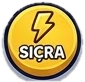
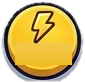
Bigger characters, closer camera, juggling spin+stadium, mascot eye follow/petting, close buttons (back removed), Sprint, team names on scoreboard, replay vignette fix, badges screen
Claude-Session: https://claude.ai/code/session_01PjKaEJ3vqSJ4Fjk85iHy2q

Changed region(s): [[0.1647, 0.5366, 0.8471, 0.8049], [0.1647, 0.6098, 0.1882, 0.6341]]

diff --git a/www/index.html b/www/index.html
@@ -257,7 +257,8 @@ input[type=range].rg::-moz-range-thumb{width:22px;height:22px;border-radius:50%;
 #tc .tb[data-a=k]{background-image:url(assets/h_shoot.png)}
 #tc .tb[data-a=p]{background-image:url(assets/h_pass.png)}
 #tc .tb[data-a=s]{background-image:url(assets/h_dash.png)}
-#tc .tb[data-a=k] svg,#tc .tb[data-a=p] svg,#tc .tb[data-a=s] svg,#tc .tb[data-a=k] .tl,#tc .tb[data-a=p] .tl,#tc .tb[data-a=s] .tl{display:none}
+#tc .tb[data-a=k] svg,#tc .tb[data-a=p] svg,#tc .tb[data-a=s] svg,#tc .tb[data-a=k] .tl,#tc .tb[data-a=p] .tl{display:none}
+#tc .tb[data-a=s] .tl{position:absolute;left:0;right:0;bottom:19%;text-align:center;font:900 calc(var(--u)*.3)/1 system-ui;color:#fff;letter-spacing:.02em;-webkit-text-stroke:calc(var(--u)*.05) #3a2a00;paint-order:stroke fill;text-shadow:0 1px 0 rgba(0,0,0,.35);pointer-events:none}
 #tc .tb[data-a=k].on,#tc .tb[data-a=p].on,#tc .tb[data-a=s].on{background-color:transparent;filter:brightness(1.25) drop-shadow(0 2px 3px rgba(0,0,0,.5));transform:scale(.92)}
 #pz{background:url(assets/h_pause.png) center/contain no-repeat!important;filter:drop-shadow(0 2px 4px rgba(0,0,0,.45))}#pz svg{display:none!important}
 
@@ -327,7 +328,7 @@ const KS={},DEFK=JSON.stringify([K1,K2]);let cap=null,inSet=false,sb='menu',HL=1
 function loadHL(){try{const v=+localStorage.getItem('kroki-half');if(HLO.includes(v))HLn=HL=v}catch(e){}}
 function chHL(d){let i=HLO.indexOf(HLn);i=Math.max(0,Math.min(HLO.length-1,i+d));HLn=HLO[i];try{localStorage.setItem('kroki-half',HLn)}catch(e){}settings()}
 loadHL();
-const ACT=[['u','Yukarı'],['d','Aşağı'],['l','Sol'],['r','Sağ'],['k','Şut'],['p','Pas'],['w','Oyuncu değiştir'],['s','Sıçrama'],['x','Müdahale'],['y','Özel yetenek']];
+const ACT=[['u','Yukarı'],['d','Aşağı'],['l','Sol'],['r','Sağ'],['k','Şut'],['p','Pas'],['w','Oyuncu değiştir'],['s','Sprint'],['x','Müdahale'],['y','Özel yetenek']];
 function rebuildKS(){const used=new Set([...Object.values(K1),...Object.values(K2)].flat());for(const a in K1)KS[a]=[...K1[a],...K2[a]];if(!used.has('Tab'))KS.w.push('Tab');if(!used.has('Space'))KS.p.push('Space')}
 function saveKeys(){try{localStorage.setItem('kroki-keys',JSON.stringify([K1,K2]))}catch(e){}}
 function loadKeys(){try{const j=JSON.parse(localStorage.getItem('kroki-keys')||'null');if(j&&j[0]&&j[1])for(const a in K1){if(Array.isArray(j[0][a])&&typeof j[0][a][0]=='string')K1[a]=[j[0][a][0]];if(Array.isArray(j[1][a])&&typeof j[1][a][0]=='string')K2[a]=[j[1][a][0]]}}catch(e){}}
@@ -335,7 +336,7 @@ function kname(a){const c=Array.isArray(a)?a[0]:a;if(!c)return'?';let m;if(m=/^K
 function assignKey(si,a,code){if(['KeyP','KeyM','KeyZ','Escape'].includes(code))return;const K=si==1?K1:K2,old=K[a][0];for(const X of[K1,K2])for(const b in X)if(X[b][0]==code&&!(X===K&&b==a))X[b]=[old];K[a]=[code];saveKeys();rebuildKS()}
 function resetKeys(){const d=JSON.parse(DEFK);for(const a in K1){K1[a]=d[0][a];K2[a]=d[1][a]}saveKeys();rebuildKS();settings()}
 let spage='hub';
-const ACTN={Yukarı:'Up',Aşağı:'Down',Sol:'Left',Sağ:'Right',Şut:'Shoot',Pas:'Pass','Oyuncu değiştir':'Switch player',Sıçrama:'Dash',Müdahale:'Tackle','Özel yetenek':'Special'};
+const ACTN={Yukarı:'Up',Aşağı:'Down',Sol:'Left',Sağ:'Right',Şut:'Shoot',Pas:'Pass','Oyuncu değiştir':'Switch player',Sprint:'Sprint',Müdahale:'Tackle','Özel yetenek':'Special'};
 const HI='border-image-source:url(assets/bt_yM.png);color:#4a2a00;text-shadow:0 1px 0 rgba(255,235,170,.7)';
 function spg(p){spage=p;cap=null;settings()}
 function settings(from){if(from){sb=from;spage='hub'}inSet=true;ov.style.display='flex';let h='<div class="card">';
@@ -362,15 +363,15 @@ function settings(from){if(from){sb=from;spage='hub'}inSet=true;ov.style.display
  else if(spage=='mus'){const v=Math.round(ST.mus*100);h+='<div style="width:min(520px,94%);margin:10px auto"><div class="srow"><span class="sl">'+L('Müzik','Music')+'</span><span class="sc"><button class="tg'+(ST.musOn?' on':'')+'" onclick="ST.musOn=!ST.musOn;applyAudio();saveST();au();settings()"></button></span></div><div class="srow"><span class="sl">'+L('Müzik seviyesi','Music volume')+'</span><span class="sc"><input class="rg" type="range" min="0" max="100" value="'+v+'" style="--v:'+v+'%" oninput="ST.mus=this.value/100;this.style.setProperty(\'--v\',this.value+\'%\');applyAudio();saveST();this.nextElementSibling.textContent=this.value+\'%\'"><b style="min-width:42px">'+v+'%</b></span></div></div><small>'+L('Müzik ilk tıklama/tuş basışından sonra başlar.','Music starts after your first click or key press.')+'</small>'+back}
  h+='</div>';ov.innerHTML=h}
 const CML=[['Yön.','Dir.'],['1×','1×'],['1.25×','1.25×'],['1.7×','1.7×'],['2.2×','2.2×']];
-function camNext(){const L=[1,1.25,1.7,2.2];zm=(zm+1)%3;if(zm>0)cam.z=L[zm-1];au();camLbl()}
+function camNext(){const L=[1,1.5,1.9,2.4];zm=(zm+1)%3;if(zm>0)cam.z=L[zm-1];au();camLbl()}
 function camLbl(){const b=document.getElementById('cm');if(b)b.textContent='🎥 '+(ST.lang=='en'?CML[zm][1]:CML[zm][0])}
-function setZm(k){zm=k;const L2=[1,1.25,1.7,2.2];if(k>0)cam.z=L2[k-1];camLbl();settings()}
+function setZm(k){zm=k;const L2=[1,1.5,1.9,2.4];if(k>0)cam.z=L2[k-1];camLbl();settings()}
 function setLang(l){ST.lang=l;saveST();settings()}
 function rebind(si,a){cap={s:si,a};settings()}
 function settingsBack(){cap=null;if(spage!='hub'){spage='hub';settings();return}inSet=false;if(sb=='pause')pauseUI();else menu()}
 loadKeys();rebuildKS();
 const NP=6,HOME=[[.03,.5],[.2,.25],[.2,.75],[.32,.5],[.45,.27],[.45,.73]];
-let tour=null,mode=1,D=DIF.medium,P=[],ball,score=[0,0],time=0,ext=0,half=0,froze=0,msg='',act=[4,4],ctl=[KS,null],state='menu',shake=0,restart=null,psw=null,ko=null,hold=null,cam={x:500,y:310,z:1.25},kdg=[false,false];
+let tour=null,mode=1,D=DIF.medium,P=[],ball,score=[0,0],time=0,ext=0,half=0,froze=0,msg='',act=[4,4],ctl=[KS,null],state='menu',shake=0,restart=null,psw=null,ko=null,hold=null,cam={x:500,y:310,z:1.5},kdg=[false,false];
 const GS=.58;let kfx=[],gcam=null,zm=2,netFx=[null,null],bars=[],bused=[0,0],kult=[0,0],swd=[],trail=[],bh=[],clock=0,fxs=[],AC=null,mute=false,msg2='',msg2t=0;
 let ST={touch:'auto',gfx:'auto',fps:false,lang:'tr',sfx:.8,mus:.12,musOn:true,shk:true};
 try{const j=JSON.parse(localStorage.getItem('kroki-set')||'null');if(j&&typeof j=='object')ST=Object.assign(ST,j)}catch(e){}
@@ -452,7 +453,7 @@ function tcBuild(){if(tcBuilt)return;tcBuilt=true;tcEl.innerHTML='<div class="jz
  x:'<path class="f" d="M3.5 15.6V5.2h5.2v5.4l8.6 2.6c1.7.5 3.2 1.8 3.2 3.7v1.7H3.5z"/><path d="M7 21.2v-1.6M11 21.2v-1.6M15 21.2v-1.6M19 21.2v-1.6"/>',
  t:'<path class="f" d="M12 2.8l2.8 5.8 6.3.9-4.6 4.4 1.1 6.3L12 17.2l-5.6 3 1.1-6.3L2.9 9.5l6.3-.9z"/>',
  y:'<path class="f" d="M12 2.8l2.8 5.8 6.3.9-4.6 4.4 1.1 6.3L12 17.2l-5.6 3 1.1-6.3L2.9 9.5l6.3-.9z"/>'};
- const B=[['k',['ŞUT','SHOOT'],.7,.7,2.0],['p',['PAS','PASS'],3.1,.5,1.5],['s',['SIÇRA','DASH'],.5,3.2,1.2],['w',['DEĞİŞ','SWITCH'],2.7,2.5,1.15],['x',['FAUL','FOUL'],4.7,1.9,1.15],['t',['TAKIM','TEAM'],6.1,.6,1.15]];
+ const B=[['k',['ŞUT','SHOOT'],.7,.7,2.0],['p',['PAS','PASS'],3.1,.5,1.5],['s',['SPRİNT','SPRINT'],.5,3.2,1.2],['w',['DEĞİŞ','SWITCH'],2.7,2.5,1.15],['x',['FAUL','FOUL'],4.7,1.9,1.15],['t',['TAKIM','TEAM'],6.1,.6,1.15]];
  B.forEach(([a,nm,r,b,z])=>{const e=document.createElement('div');e.className='tb'+(a=='k'?' big':'');e.dataset.a=a;if(a=='y')tcY=e;e.style.cssText='right:calc(var(--u)*'+r+');bottom:calc(var(--u)*'+b+');width:calc(var(--u)*'+z+');height:calc(var(--u)*'+z+')';e.innerHTML='<svg viewBox="0 0 24 24">'+IC[a]+'</svg><span class="tl" data-t="'+nm[0]+'" data-e="'+nm[1]+'"></span>';
   let code=null;const dn=ev=>{ev.preventDefault();au();try{e.setPointerCapture(ev.pointerId)}catch(_){}if(code){e.classList.remove('on');vk('keyup',code);code=null}code=(K1[a]||{t:['KeyE']}[a])[0];e.classList.add('on');vk('keydown',code)},rel=()=>{if(code){e.classList.remove('on');try{vk('keyup',code)}catch(_){}code=null}};(tcEl._rels=tcEl._rels||[]).push(rel);const _u=null;up=ev=>{ev.preventDefault();if(!code)return;e.classList.remove('on');vk('keyup',code);code=null};
   e.addEventListener('pointerdown',dn);e.addEventListener('pointerup',up);e.addEventListener('pointercancel',up);e.addEventListener('lostpointercapture',up);tcEl.appendChild(e)});
@@ -479,10 +480,12 @@ let mcT=0,mcPX=0,mcPY=0;
 function mcTick(){const m=document.querySelector('.hmCh .mc2');if(!m){mcT=0;return}const t=Date.now()/1000;
  if(Math.random()<.014&&!m.classList.contains('bl')){m.classList.add('bl');setTimeout(()=>m.classList.remove('bl'),130)}
  if(Math.random()<.004&&!m.classList.contains('hap')){mcMouth(3);setTimeout(()=>{if(!m.classList.contains('hap'))mcMouth(1)},700)}
- if(Date.now()-mcLast>3500){mcPX=Math.sin(t*.7)*9;mcPY=Math.sin(t*.5+1)*4}
+ if(Date.now()-mcLast>5500){mcPX=Math.sin(t*.7)*9;mcPY=Math.sin(t*.5+1)*4}
  m.style.setProperty('--px',mcPX+'%');m.style.setProperty('--py',mcPY+'%')}
 let mcLast=0;setInterval(mcTick,70);
-function mcLook(e){const m=document.querySelector('.hmCh .mc2');if(!m)return;const r=m.getBoundingClientRect(),x=(e.clientX-(r.left+r.width/2))/(innerWidth*.35),y=(e.clientY-(r.top+r.height*.4))/(innerHeight*.35);mcPX=Math.max(-12,Math.min(12,x*12));mcPY=Math.max(-8,Math.min(8,y*8));mcLast=Date.now();if(!mcT)mcTick()}
+let mcSt=0,mcLx=0,mcLy=0;
+function mcLook(e){const m=document.querySelector('.hmCh .mc2');if(!m)return;const r=m.getBoundingClientRect(),x=(e.clientX-(r.left+r.width/2))/(innerWidth*.18),y=(e.clientY-(r.top+r.height*.4))/(innerHeight*.18);mcPX=Math.max(-22,Math.min(22,x*22));mcPY=Math.max(-14,Math.min(14,y*14));mcLast=Date.now();
+ const on=e.clientX>r.left&&e.clientX<r.right&&e.clientY>r.top&&e.clientY<r.bottom;if(on&&e.type=='pointermove'){mcSt+=Math.hypot(e.clientX-mcLx,e.clientY-mcLy);if(mcSt>140&&!m.classList.contains('hap')){mcSt=0;mcHap(1800);try{au()}catch(_){}}}else if(!on)mcSt=Math.max(0,mcSt-6);mcLx=e.clientX;mcLy=e.clientY;if(!mcT)mcTick()}
 addEventListener('pointermove',mcLook,{passive:true});addEventListener('pointerdown',mcLook,{passive:true});
 function mnChar(){try{const o=document.createElement('canvas');o.width=o.height=520;const x=o.getContext('2d'),sc=c;c=x;try{p3Char(260,430,12.6,{t:0,i:4,front:1,fx:0,fy:.25,cele:true,near:true})}finally{c=sc}return o.toDataURL()}catch(e){return ''}}
 function menuHTML(){const ctrl=!tcOn(),done=QS?QS.q.filter(q=>q.done).length:0,lv=(QS&&QS.lv)||1,nd=lvNeed(lv),xp=(QS&&QS.xp)||0,pc=Math.max(3,Math.min(100,xp/nd*100)),nm=(window.KR&&KR.profile&&KR.profile.name)||L('Oyuncu','Player'),E=x=>String(x).replace(/[&<>"']/g,ch=>'&#'+ch.charCodeAt(0)+';');
@@ -521,8 +524,8 @@ function mnJug(){const z=document.getElementById('mnJ');if(!z)return;const b=z.q
  z.onpointerdown=e=>{const rc=z.getBoundingClientRect(),px=e.clientX-rc.left,py=e.clientY-rc.top,by=H-y-bs/2;if(Math.hypot(px-x,py-by)>bs*1.1)return;try{au();sfxKick(false)}catch(_){}vy=Math.sqrt(2*H*6*H*.78);vx=(x-px)*7+(Math.random()-.5)*60;n++;if(n>QS.jug){QS.jug=n;qSave()}show();b.classList.remove('hit');void b.offsetWidth;b.classList.add('hit')};
  const st=t=>{if(!document.body.contains(z)||state!='menu')return;const dt=Math.min(.04,(t-lt)/1000);lt=t;vy-=H*6*dt*1;y+=vy*dt;x+=vx*dt;vx*=Math.pow(.6,dt);if(x<bs/2){x=bs/2;vx=Math.abs(vx)}if(x>Wd-bs/2){x=Wd-bs/2;vx=-Math.abs(vx)}if(y<=0){y=0;if(vy<-H*1.2){vy=-vy*.45}else vy=0;if(n>0&&vy==0){n=0;show()}else if(n>0&&y==0&&vy>0){}}r+=vx*dt*.9;b.style.transform='translate('+(x-bs/2)+'px,'+(-y)+'px) rotate('+r+'deg)';const sh=z.querySelector('.jsh');sh.style.transform='translateX('+(x-bs/2)+'px) scale('+Math.max(.4,1-y/(H*1.3))+')';requestAnimationFrame(st)};requestAnimationFrame(st)}
 let dk='medium';
-function helpText(){const n=a=>kname(a);const b1=ST.lang=='en'?`${n(K1.u)}${n(K1.l)}${n(K1.d)}${n(K1.r)} move · ${n(K1.k)} shoot (hold = power, steer while holding = curve) · ${n(K1.p)} pass (on rival wing = CROSS, double tap = THROUGH BALL) · ${n(K1.w)} switch player · ${n(K1.s)} dash · ${n(K1.x)} tackle · ${n(K1.y)} special (defender: WALL in front of the ball, once per half)`:`${n(K1.u)}${n(K1.l)}${n(K1.d)}${n(K1.r)} hareket · ${n(K1.k)} şut (basılı tut = güç, basılıyken yana kay = falso) · ${n(K1.p)} pas (rakip kanadında = ORTA, iki kez bas = ARA PASI) · ${n(K1.w)} oyuncu değiştir · ${n(K1.s)} sıçrama · ${n(K1.x)} müdahale · ${n(K1.y)} özel (defans: topun önüne SET duvarı, yarıda 1 kez)`;
- const b2=ST.lang=='en'?`${n(K2.u)}${n(K2.l)}${n(K2.d)}${n(K2.r)} move · ${n(K2.k)} shoot · ${n(K2.p)} pass · ${n(K2.w)} switch player · ${n(K2.s)} dash · ${n(K2.x)} tackle · ${n(K2.y)} special`:`${n(K2.u)}${n(K2.l)}${n(K2.d)}${n(K2.r)} hareket · ${n(K2.k)} şut · ${n(K2.p)} pas · ${n(K2.w)} oyuncu değiştir · ${n(K2.s)} sıçrama · ${n(K2.x)} müdahale · ${n(K2.y)} özel`;
+function helpText(){const n=a=>kname(a);const b1=ST.lang=='en'?`${n(K1.u)}${n(K1.l)}${n(K1.d)}${n(K1.r)} move · ${n(K1.k)} shoot (hold = power, steer while holding = curve) · ${n(K1.p)} pass (on rival wing = CROSS, double tap = THROUGH BALL) · ${n(K1.w)} switch player · ${n(K1.s)} sprint · ${n(K1.x)} tackle · ${n(K1.y)} special (defender: WALL in front of the ball, once per half)`:`${n(K1.u)}${n(K1.l)}${n(K1.d)}${n(K1.r)} hareket · ${n(K1.k)} şut (basılı tut = güç, basılıyken yana kay = falso) · ${n(K1.p)} pas (rakip kanadında = ORTA, iki kez bas = ARA PASI) · ${n(K1.w)} oyuncu değiştir · ${n(K1.s)} sprint · ${n(K1.x)} müdahale · ${n(K1.y)} özel (defans: topun önüne SET duvarı, yarıda 1 kez)`;
+ const b2=ST.lang=='en'?`${n(K2.u)}${n(K2.l)}${n(K2.d)}${n(K2.r)} move · ${n(K2.k)} shoot · ${n(K2.p)} pass · ${n(K2.w)} switch player · ${n(K2.s)} sprint · ${n(K2.x)} tackle · ${n(K2.y)} special`:`${n(K2.u)}${n(K2.l)}${n(K2.d)}${n(K2.r)} hareket · ${n(K2.k)} şut · ${n(K2.p)} pas · ${n(K2.w)} oyuncu değiştir · ${n(K2.s)} sprint · ${n(K2.x)} müdahale · ${n(K2.y)} özel`;
  return `<div class="row"><button onclick="settings('menu')">⚙ ${L('Ayarlar','Settings')}</button></div><small${tcOn()?' style="display:none"':''}><b style="color:#7cc4ee">${L('MAVİ','BLUE')}:</b> ${b1}<br><b style="color:#f0916f">${L('TURUNCU','ORANGE')}:</b> ${b2}<br>${L('1 Oyuncu modunda mavi takımı her iki tuş grubuyla oynayabilirsin.','In 1-player mode you can control the blue team with either key set.')}<br>${L('Z: yakınlaştırma · M: ses aç/kapat · P/Esc: durdur · Maç 2 × '+HL/60+' dakika.','Z: zoom · M: mute · P/Esc: pause · Match: 2 × '+HL/60+' min.')}</small>`}
 
 let HT=false,JG=null;
@@ -537,21 +540,37 @@ function jgStart(){const cv2=document.getElementById('jgc');if(!cv2)return;const
 function jgHit(px,py){const J=JG;if(!J)return;const b=J.b,R=J.R;let dx=b.x-px,dy=b.y-py;const d=Math.hypot(dx,dy);if(d>R*2)return;
  const k=Math.max(0,1-d/(R*2));const nx=d>1?dx/d:0,ny=d>1?dy/d:-1;
  // vuruş: topu dokunma noktasından uzağa it; alttan vurunca yukarı gider
- const pw=J.h*(1.55+.5*k);b.vx=nx*pw*.85+(Math.random()-.5)*J.h*.5+b.vx*.15;b.vy=Math.min(ny*pw,-J.h*.95)+Math.min(0,b.vy)*.1;b.va+=nx*9+(Math.random()-.5)*2;
+ const pw=J.h*(1.55+.5*k);b.vx=nx*pw*.85+(Math.random()-.5)*J.h*.5+b.vx*.15;b.vy=Math.min(ny*pw,-J.h*.95)+Math.min(0,b.vy)*.1;b.va=b.va*.3+nx*(16+8*k)+(Math.random()-.5)*6;
  J.sc++;J.pop=1;if(J.sc>J.best)J.best=J.sc;if(J.sc>jgBest()){try{localStorage.setItem('kroki-jug',J.sc)}catch(e){}const e2=document.getElementById('jgB');if(e2)e2.textContent=J.sc}try{sfxKick(false)}catch(e){}}
 function jgBall(x,R){x.beginPath();x.arc(0,0,R,0,7);x.fillStyle='#fff';x.fill();x.save();x.clip();x.fillStyle='#111';
  const pent=(cx,cy,r,rot)=>{x.beginPath();for(let i=0;i<5;i++){const a=rot+i*Math.PI*2/5-Math.PI/2;x[i?'lineTo':'moveTo'](cx+Math.cos(a)*r,cy+Math.sin(a)*r)}x.closePath();x.fill()};
  pent(0,0,R*.36,0);for(let i=0;i<5;i++){const a=i*Math.PI*2/5-Math.PI/2;const cx=Math.cos(a)*R*.95,cy=Math.sin(a)*R*.95;pent(cx,cy,R*.34,a+Math.PI/2+Math.PI/5*0+Math.PI);
   x.strokeStyle='#111';x.lineWidth=R*.07;x.beginPath();x.moveTo(Math.cos(a)*R*.36,Math.sin(a)*R*.36);x.lineTo(Math.cos(a)*R*.62,Math.sin(a)*R*.62);x.stroke()}
  x.restore();const g=x.createRadialGradient(-R*.35,-R*.4,R*.1,0,0,R*1.05);g.addColorStop(0,'rgba(255,255,255,.55)');g.addColorStop(.45,'rgba(255,255,255,0)');g.addColorStop(1,'rgba(0,0,0,.38)');x.beginPath();x.arc(0,0,R,0,7);x.fillStyle=g;x.fill();x.lineWidth=2;x.strokeStyle='rgba(0,0,0,.55)';x.stroke()}
+function jgBg(w,h,dpr){const c2=document.createElement('canvas');c2.width=Math.round(w*dpr);c2.height=Math.round(h*dpr);const x=c2.getContext('2d');x.scale(dpr,dpr);const hz=h*.5;let r=7;const rnd=()=>(r=(r*16807)%2147483647)/2147483647;
+ let g=x.createLinearGradient(0,0,0,hz);g.addColorStop(0,'#0b1d3a');g.addColorStop(1,'#2c5d8f');x.fillStyle=g;x.fillRect(0,0,w,hz);
+ for(let i=0;i<50;i++){x.fillStyle='rgba(255,255,255,'+(.3+rnd()*.5)+')';x.fillRect(rnd()*w,rnd()*hz*.5,1.5,1.5)}
+ // tribün
+ const t0=hz*.38;g=x.createLinearGradient(0,t0,0,hz);g.addColorStop(0,'#26324a');g.addColorStop(1,'#141b2b');x.fillStyle=g;x.fillRect(0,t0,w,hz-t0);
+ const cols=['#e8453c','#f2c230','#3b8fe0','#f4f4f4','#47b36a','#e57ab2'];for(let row=0;row<7;row++){const y=t0+6+row*(hz-t0-10)/7;for(let xx=(row%2)*6;xx<w;xx+=12){x.fillStyle=cols[Math.floor(rnd()*6)];x.globalAlpha=.55+rnd()*.35;x.beginPath();x.arc(xx+3,y,3.2,0,7);x.fill();x.fillStyle='#e9c9a4';x.beginPath();x.arc(xx+3,y-4,2.2,0,7);x.fill()}}x.globalAlpha=1;
+ g=x.createLinearGradient(0,t0,0,t0+14);g.addColorStop(0,'rgba(0,0,0,.5)');g.addColorStop(1,'rgba(0,0,0,0)');x.fillStyle=g;x.fillRect(0,t0,w,14);
+ // reklam panoları
+ const bh=h*.055;x.fillStyle='#10151f';x.fillRect(0,hz-bh,w,bh);const bw=w/6;for(let i=0;i<7;i++){x.fillStyle=['#e8453c','#2a7de1','#f2c230','#2fb36a'][i%4];x.fillRect(i*bw+4,hz-bh+4,bw-8,bh-8);x.fillStyle='rgba(255,255,255,.85)';x.font='900 '+Math.round(bh*.5)+'px system-ui';x.textAlign='center';x.fillText('SCRIBBLE KICK',i*bw+bw/2,hz-bh*.3)}
+ // projektörler
+ for(const fx of[w*.12,w*.88]){const gl=x.createRadialGradient(fx,t0*.5,2,fx,t0*.5,h*.45);gl.addColorStop(0,'rgba(255,248,210,.55)');gl.addColorStop(1,'rgba(255,248,210,0)');x.fillStyle=gl;x.fillRect(0,0,w,hz);x.fillStyle='#fff';x.fillRect(fx-14,t0*.5-5,28,10)}
+ // çim
+ g=x.createLinearGradient(0,hz,0,h);g.addColorStop(0,'#2f8f43');g.addColorStop(1,'#175c27');x.fillStyle=g;x.fillRect(0,hz,w,h-hz);
+ for(let i=0;i<10;i++){const y0=hz+(h-hz)*Math.pow(i/10,1.6),y1=hz+(h-hz)*Math.pow((i+1)/10,1.6);x.fillStyle=i%2?'rgba(255,255,255,.05)':'rgba(0,0,0,.07)';x.fillRect(0,y0,w,y1-y0)}
+ x.strokeStyle='rgba(255,255,255,.35)';x.lineWidth=3;x.beginPath();x.moveTo(0,hz+(h-hz)*.12);x.lineTo(w,hz+(h-hz)*.12);x.stroke();
+ g=x.createLinearGradient(0,hz,0,hz+18);g.addColorStop(0,'rgba(0,0,0,.35)');g.addColorStop(1,'rgba(0,0,0,0)');x.fillStyle=g;x.fillRect(0,hz,w,18);
+ g=x.createRadialGradient(w/2,h*.55,h*.2,w/2,h*.55,w*.7);g.addColorStop(0,'rgba(0,0,0,0)');g.addColorStop(1,'rgba(0,0,0,.35)');x.fillStyle=g;x.fillRect(0,0,w,h);return c2}
 function jgLoop(t){const J=JG;if(!J||!document.body.contains(J.cv))return;const dt=Math.min(.033,(t-J.t)/1000);J.t=t;const b=J.b,x=J.x,R=J.R,w=J.w,h=J.h,G=h-R*.6;
- b.vy+=h*2.1*dt;const dr=Math.pow(.985,dt*60);b.vx*=dr;b.x+=b.vx*dt;b.y+=b.vy*dt;b.a+=b.va*dt;b.va*=Math.pow(.99,dt*60);
+ b.vy+=h*2.1*dt;const dr=Math.pow(.985,dt*60);b.vx*=dr;b.x+=b.vx*dt;b.y+=b.vy*dt;b.a+=b.va*dt;b.vx+=b.va*R*.35*dt;b.va*=Math.pow(.995,dt*60);
  if(b.x<R){b.x=R;b.vx=Math.abs(b.vx)*.8;b.va=-b.va*.6}if(b.x>w-R){b.x=w-R;b.vx=-Math.abs(b.vx)*.8;b.va=-b.va*.6}
  if(b.y<R){b.y=R;b.vy=Math.abs(b.vy)*.7}
- if(b.y>G){b.y=G;if(b.vy>h*.25){b.vy=-b.vy*.72;J.fl=1;try{sfx('kick_soft')}catch(e){}}else b.vy=0;b.vx*=Math.pow(.96,dt*60);b.va=b.vx/R;if(J.sc){J.sc=0}}
+ if(b.y>G){b.y=G;if(b.vy>h*.25){b.vy=-b.vy*.72;b.va=b.va*.7+b.vx/R*.4;J.fl=1;try{sfx('kick_soft')}catch(e){}}else b.vy=0;b.vx*=Math.pow(.96,dt*60);b.va=b.vx/R;if(J.sc){J.sc=0}}
  J.pop=Math.max(0,J.pop-dt*5);J.fl=Math.max(0,J.fl-dt*4);
- x.setTransform(J.dpr,0,0,J.dpr,0,0);const hz=h*.5;const g=x.createLinearGradient(0,0,0,h);g.addColorStop(0,'#1d5a86');g.addColorStop(.52,'#8fd0ee');g.addColorStop(.521,'#3fa84a');g.addColorStop(1,'#1b6e2e');x.fillStyle=g;x.fillRect(0,0,w,h);
- for(let i=0;i<8;i++){x.fillStyle=i%2?'rgba(255,255,255,.04)':'rgba(0,0,0,.05)';x.fillRect(0,hz+i*(h-hz)/8,w,(h-hz)/8)}
+ x.setTransform(J.dpr,0,0,J.dpr,0,0);const hz=h*.5;if(!J.bg)J.bg=jgBg(w,h,J.dpr);x.drawImage(J.bg,0,0,w,h);
  const hgt=Math.max(.25,1-(G-b.y)/(h*.9));x.fillStyle='rgba(0,0,0,.3)';x.beginPath();x.ellipse(b.x,G+R*.55,R*.9*hgt,R*.22*hgt,0,0,7);x.fill();
  x.save();x.translate(b.x,b.y);const sq=1+J.fl*.1;x.scale(sq*(1+J.pop*.06),(1+J.pop*.06)/sq);x.rotate(b.a);jgBall(x,R);x.restore();
  x.textAlign='center';x.font='900 '+Math.round(h*.16)+'px system-ui';x.lineWidth=5;x.strokeStyle='rgba(0,0,0,.45)';x.fillStyle='rgba(255,255,255,.55)';x.strokeStyle='rgba(0,0,0,.2)';x.strokeText(J.sc,w/2,h*.34);x.fillText(J.sc,w/2,h*.34);
@@ -1062,12 +1081,12 @@ function plLoad(){for(const k in PLF){const im=new Image();im.src='assets/pl_'+k
 function plHSL(hex){const n=parseInt(hex.slice(1),16),r=(n>>16&255)/255,g=(n>>8&255)/255,b=(n&255)/255,mx=Math.max(r,g,b),mn=Math.min(r,g,b),l=(mx+mn)/2,d=mx-mn;let h=0,sa=0;if(d){sa=d/(1-Math.abs(2*l-1));h=mx==r?((g-b)/d)%6:mx==g?(b-r)/d+2:(r-g)/d+4;h=(h*60+360)%360}return[h,sa,l]}
 const PLS={lion:{"0": [249, 301, 124.5, 182.7, 118.3], "1": [242, 257, 121.0, 142.1, 114.9], "2": [216, 227, 108.0, 124.4, 102.6], "3": [252, 263, 126.0, 143.3, 119.7], "4": [227, 243, 113.5, 135.2, 107.8], "k": [689, 339, 344.5, 189, 150]},robot:{"0": [243, 268, 121.5, 134.0, 127.8], "1": [241, 291, 120.5, 145.5, 133.0], "2": [247, 308, 123.5, 154.0, 138.8], "3": [255, 232, 127.5, 116.0, 121.8], "4": [233, 308, 116.5, 154.0, 135.2], "k": [560, 302, 280.0, 151.0, 135.9]},bear:{"0": [249, 268, 124.5, 134.0, 129.2], "1": [241, 245, 120.5, 122.5, 121.5], "2": [222, 245, 111.0, 122.5, 116.8], "3": [224, 246, 112.0, 123.0, 117.5], "4": [224, 245, 112.0, 122.5, 117.2], "k": [503, 292, 251.5, 146.0, 131.4]},wolf:{"0": [256, 258, 128.0, 129.0, 128.5], "1": [236, 257, 118.0, 128.5, 123.2], "2": [236, 258, 118.0, 129.0, 123.5], "3": [242, 258, 121.0, 129.0, 125.0], "4": [237, 258, 118.5, 129.0, 123.8], "k": [496, 292, 248.0, 146.0, 131.4]},tiger:{"0": [235, 248, 117.5, 124.0, 120.8], "1": [235, 248, 117.5, 124.0, 120.8], "2": [235, 248, 117.5, 124.0, 120.8], "3": [252, 259, 126.0, 129.5, 127.8], "4": [235, 248, 117.5, 124.0, 120.8], "k": [496, 292, 248.0, 146.0, 131.4]},zebra:{"0": [221, 269, 110.5, 134.5, 122.5], "1": [279, 268, 139.5, 134.0, 136.8], "2": [222, 268, 111.0, 134.0, 122.5], "3": [222, 268, 111.0, 134.0, 122.5], "4": [222, 268, 111.0, 134.0, 122.5], "k": [659, 357, 329.5, 178.5, 160.7]},ghost:{"0": [259, 256, 129.5, 128.0, 128.8], "1": [216, 256, 108.0, 128.0, 118.0], "2": [216, 286, 108.0, 143.0, 125.5], "3": [224, 256, 112.0, 128.0, 120.0], "4": [216, 256, 108.0, 128.0, 118.0], "k": [661, 342, 330.5, 171.0, 153.9]},ninja:{"0": [257, 200, 128.5, 100.0, 114.2], "1": [256, 200, 128.0, 100.0, 114.0], "2": [257, 200, 128.5, 100.0, 114.2], "3": [257, 200, 128.5, 100.0, 114.2], "4": [257, 200, 128.5, 100.0, 114.2], "k": [653, 332, 326.5, 166.0, 149.4]},dino:{"0": [261, 279, 130.5, 139.5, 135.0], "1": [255, 272, 127.5, 136.0, 131.8], "2": [263, 242, 131.5, 121.0, 126.2], "3": [232, 272, 116.0, 136.0, 126.0], "4": [248, 260, 124.0, 130.0, 127.0], "k": [668, 342, 334.0, 171.0, 153.9]},penguin:{"0": [214, 258, 107.0, 129.0, 118.0], "1": [227, 307, 113.5, 153.5, 133.5], "2": [227, 267, 113.5, 133.5, 123.5], "3": [228, 228, 114.0, 114.0, 114.0], "4": [237, 228, 118.5, 114.0, 116.2], "k": [663, 340, 331.5, 170.0, 153.0]},thunder:{"0": [248, 256, 124.0, 128.0, 126.0], "1": [248, 200, 124.0, 100.0, 112.0], "2": [263, 238, 131.5, 119.0, 125.2], "3": [248, 200, 124.0, 100.0, 112.0], "4": [257, 230, 128.5, 115.0, 121.8], "k": [660, 331, 330.0, 165.5, 149.0]},dragon:{"0": [248, 291, 124.0, 145.5, 134.8], "1": [248, 290, 124.0, 145.0, 134.5], "2": [249, 290, 124.5, 145.0, 134.8], "3": [249, 291, 124.5, 145.5, 135.0], "4": [264, 317, 132.0, 158.5, 145.2], "k": [652, 341, 326.0, 170.5, 153.5]},bull:{"0": [248, 291, 124.0, 145.5, 134.8], "1": [249, 291, 124.5, 145.5, 135.0], "2": [248, 291, 124.0, 145.5, 134.8], "3": [248, 293, 124.0, 146.5, 135.2], "4": [245, 291, 122.5, 145.5, 134.0], "k": [652, 362, 326.0, 181.0, 162.9]},eagle:{"0": [216, 310, 108.0, 155.0, 131.5], "1": [219, 257, 109.5, 128.5, 119.0], "2": [263, 273, 131.5, 136.5, 134.0], "3": [217, 258, 108.5, 129.0, 118.8], "4": [253, 258, 126.5, 129.0, 127.8], "k": [652, 347, 326.0, 173.5, 156.2]}};
 
-function plGet(t,i,hex){const tm=TS[t];if(PLS[tm]){const q=i?String(i-1):'k',f=PLS[tm][q],key=tm+'_'+q;if(key in PLC&&PLC[key])return PLC[key];let im=PLI[key];if(!im){im=PLI[key]=new Image();im.src='assets/pl_'+key+'.png'}if(!im.complete||!im.naturalWidth)return null;const kz=100/(2*f[4]),cv=document.createElement('canvas');cv.width=Math.round(f[0]*kz);cv.height=Math.round(f[1]*kz);cv.getContext('2d').drawImage(im,0,0,cv.width,cv.height);return PLC[key]={cv,cx:f[2]*kz,cy:f[3]*kz,u:14/(f[4]*kz)}}
+function plGet(t,i,hex){const tm=TS[t];if(PLS[tm]){const q=i?String(i-1):'k',f=PLS[tm][q],key=tm+'_'+q;if(key in PLC&&PLC[key])return PLC[key];let im=PLI[key];if(!im){im=PLI[key]=new Image();im.src='assets/pl_'+key+'.png'}if(!im.complete||!im.naturalWidth)return null;const kz=100/(2*f[4]),cv=document.createElement('canvas');cv.width=Math.round(f[0]*kz);cv.height=Math.round(f[1]*kz);cv.getContext('2d').drawImage(im,0,0,cv.width,cv.height);return PLC[key]={cv,cx:f[2]*kz,cy:f[3]*kz,u:18/(f[4]*kz)}}
  const k=(t?'o':'b')+(i?i-1:0),key=(i?k:(t?'ko':'kb'))+'|'+hex,f=PLF[i?k:(t?'ko':'kb')];if(!f)return null;if(key in PLC)return PLC[key];
  const im=PLI[i?k:(t?'ko':'kb')];if(!im||!im.complete||!im.naturalWidth)return null;
  const [h,sa,l]=plHSL(hex),base=t?28:212;let dh=((h-base+540)%360)-180;if(sa<.38||l>.88||l<.12||!('filter' in c)){PLC[key]=null;return null}
  const kz=100/(2*f[4]),cv=document.createElement('canvas');cv.width=Math.round(f[0]*kz);cv.height=Math.round(f[1]*kz);const x=cv.getContext('2d');if(Math.abs(dh)>16)x.filter='hue-rotate('+Math.round(dh)+'deg)';x.drawImage(im,0,0,cv.width,cv.height);
- return PLC[key]={cv,cx:f[2]*kz,cy:f[3]*kz,u:14/(f[4]*kz)}}
+ return PLC[key]={cv,cx:f[2]*kz,cy:f[3]*kz,u:18/(f[4]*kz)}}
 function plDraw(p){if(!PLON)return false;const sp=plGet(p.t,p.i,TC[p.t][0]);if(!sp)return false;c.drawImage(sp.cv,-sp.cx*sp.u,-sp.cy*sp.u,sp.cv.width*sp.u,sp.cv.height*sp.u);return true}
 function face0(p){if(plDraw(p))return;face00(p);lateAcc(p)}
 function face00(p){const R=14,ch=CH[p.t*NP+p.i],tc=TC[p.t],lx=p.fx*1.4,ly=p.fy*1.1,XS=accSet(p,ch);
@@ -1188,13 +1207,13 @@ function rplStop(){if(!rpl)return;P=rpl.rP;ball=rpl.rB;cam.z=rpl.cz;cam.x=ball.x
 function rplStep(dt){const r=rpl;r.t+=dt;if(r.t>=r.dur){rplStop();return}const u=r.t0+Math.min(r.t*r.rate,r.t1-r.t0);let i=0;while(i<RB.length-2&&RB[i+1].t<=u)i++;const A=RB[i],B=RB[i+1]||A,f=B.t>A.t?Math.max(0,Math.min(1,(u-A.t)/(B.t-A.t))):0;
  const L1=(a,b)=>Math.abs(b-a)<80?a+(b-a)*f:a;P=A.p.map((q,k)=>{const o=Object.assign({},q),z=B.p[k];if(z){o.x=L1(q.x,z.x);o.y=L1(q.y,z.y)}return o});ball=Object.assign({},A.b);ball.x=L1(A.b.x,B.b.x);ball.y=L1(A.b.y,B.b.y);ball.h=L1(A.b.h||0,B.b.h||0);ball.car=A.ci>=0?P[A.ci]:null;
  const k=(u-r.t0)/Math.max(.01,r.t1-r.t0),zt=2+.55*k*k*(3-2*k),hw=W/2/cam.z,hh=H/2/cam.z;cam.z+=(zt-cam.z)*Math.min(1,dt*3);cam.x+=(ball.x-cam.x)*Math.min(1,dt*4.5);cam.y+=(ball.y-cam.y)*Math.min(1,dt*4.5);cam.x=clamp(cam.x,hw,W-hw);cam.y=clamp(cam.y,hh,H-hh)}
-function rplOverlay(){const r=rpl;c.setTransform(RS,0,0,RS,OX*RS,0);const g=c.createRadialGradient(W/2,H/2,H*.38,W/2,H/2,H*.85);g.addColorStop(0,'rgba(0,0,0,0)');g.addColorStop(1,'rgba(0,0,0,.55)');c.fillStyle=g;c.fillRect(0,0,W,H);
+function rplOverlay(){const r=rpl;c.setTransform(RS,0,0,RS,OX*RS,0);const g=c.createRadialGradient(W/2,H/2,H*.5,W/2,H/2,Math.hypot(VW/2,H/2));g.addColorStop(0,'rgba(0,0,0,0)');g.addColorStop(1,'rgba(0,0,0,.5)');c.fillStyle=g;c.fillRect(-OX,0,VW,H);
  c.fillStyle='rgba(0,0,0,.55)';c.fillRect(0,0,W,0);const bl=.5+.5*Math.sin(clock*7);c.fillStyle='rgba(16,28,25,.82)';c.beginPath();c.roundRect(24,86,150,34,17);c.fill();c.fillStyle='rgba(255,70,70,'+(.5+.5*bl)+')';c.beginPath();c.arc(46,103,6,0,7);c.fill();c.fillStyle='#fff';c.font='bold 17px system-ui';c.textAlign='left';c.fillText(L('TEKRAR','REPLAY'),62,109);
  c.font='600 13px system-ui';c.fillStyle='rgba(255,255,255,.8)';c.textAlign='center';c.fillText(L('Geçmek için dokun / Enter','Tap / Enter to skip'),W/2,H-26);c.fillStyle='rgba(255,255,255,.25)';c.fillRect(W/2-120,H-16,240,3);c.fillStyle='#ffd54f';c.fillRect(W/2-120,H-16,240*Math.min(1,r.t/r.dur),3)}
 
 let penRes=null;
 const PKR=27,PKD=48;
-function TNm(t){return t==1&&tour?tour.opp.n[ST.lang=='en'?1:0]:L(['MAVİ','TURUNCU'][t],['BLUE','ORANGE'][t])}
+function TNm(t){const k=(typeof TS!='undefined'&&TS[t])||null,T=k&&typeof TMS!='undefined'?TMS[k]:null,en=ST.lang=='en';if(t==1&&tour)return tour.opp.n[en?1:0];if(T)return T.n[en?1:0].toLocaleUpperCase(en?'en':'tr');return L(['MAVİ','TURUNCU'][t],['BLUE','ORANGE'][t])}
 
 const TEAMS=[{n:['MAVİ','BLUE']},{n:['YILDIRIM','THUNDER'],c:['#f06bd0','#a4278a']},{n:['KURTLAR','WOLVES'],c:['#b79bf0','#6a4bb8']},{n:['ASLANLAR','LIONS'],c:['#ffd24d','#c99a14']},{n:['KARTALLAR','EAGLES'],c:['#e8eef5','#8b98a8']},{n:['EJDERHALAR','DRAGONS'],c:['#ff6b5e','#b32a1f']},{n:['BOĞALAR','BULLS'],c:['#4fd1c5','#17877d']},{n:['KAPLANLAR','TIGERS'],c:['#ff9f4a','#c25b0a']}];
 const TRD=[{d:'easy',th:'grass'},{d:'medium',th:'clay'},{d:'hard',th:'space'}];
@@ -1240,7 +1259,7 @@ function matchEnd(){const a=score[0],b=score[1];
  state='end';sfx('whistle_long');pz.style.display='none';
  const ps=penRes?`<p style="font-size:15px;opacity:.85;margin:2px 0 8px">${L('Penaltılar','Penalties')}: ${penRes.g[0]} — ${penRes.g[1]}</p>`:'';
  const ka=(a==b&&w==0)?a+1:a,kb=(a==b&&w==1)?b+1:b;
- ov.style.display='flex';ov.innerHTML=`<div class="card"><h1>${w==0?L('MAVİ KAZANDI!','BLUE WINS!'):w==1?L('TURUNCU KAZANDI!','ORANGE WINS!'):L('BERABERE','DRAW')}</h1>${(()=>{const ns=w==0?(b==0||a-b>=2?3:2):w==1?0:1;return '<div style="margin:2px 0 -2px">'+[0,1,2].map(i=>'<img src="assets/'+(i<ns?'r_star':'r_star_off')+'.png" style="height:'+(i==1?40:30)+'px;margin:0 3px;vertical-align:bottom">').join('')+'</div>'})()}${w==0?'<img src="assets/r_trophy.png" style="height:58px;margin:-2px 0 0;filter:drop-shadow(0 3px 4px rgba(0,0,0,.5))">':''}<p style="font-size:22px;margin:4px 0">${a} — ${b}</p>${ps}${NET?'':monAdBtn(w==0?5:3)}${NET?'':statsHtml()}${(window.KR&&mode==1)?KR.matchEnd(ka,kb,dk):''}${NET?NETHOOK.endRow():'<div class="row"><button onclick="go(mode,Object.keys(DIF).find(k=>DIF[k]==D))">'+L('Yeniden Oyna','Play again')+'</button><button onclick="menu()">'+L('Menü','Menu')+'</button></div>'}</div>`}
+ ov.style.display='flex';ov.innerHTML=`<div class="card"><h1>${w==0||w==1?TNm(w)+L(' KAZANDI!',' WINS!'):L('BERABERE','DRAW')}</h1>${(()=>{const ns=w==0?(b==0||a-b>=2?3:2):w==1?0:1;return '<div style="margin:2px 0 -2px">'+[0,1,2].map(i=>'<img src="assets/'+(i<ns?'r_star':'r_star_off')+'.png" style="height:'+(i==1?40:30)+'px;margin:0 3px;vertical-align:bottom">').join('')+'</div>'})()}${w==0?'<img src="assets/r_trophy.png" style="height:58px;margin:-2px 0 0;filter:drop-shadow(0 3px 4px rgba(0,0,0,.5))">':''}<p style="font-size:22px;margin:4px 0">${a} — ${b}</p>${ps}${NET?'':monAdBtn(w==0?5:3)}${NET?'':statsHtml()}${(window.KR&&mode==1)?KR.matchEnd(ka,kb,dk):''}${NET?NETHOOK.endRow():'<div class="row"><button onclick="go(mode,Object.keys(DIF).find(k=>DIF[k]==D))">'+L('Yeniden Oyna','Play again')+'</button><button onclick="menu()">'+L('Menü','Menu')+'</button></div>'}</div>`}
 function penStart(){comment('pens');if(rpl)rplStop();RB=[];rplQ=false;const hf0=half;half=0;ext=0;froze=0;msg='';bars=[];swd=[];fk=null;pk=null;restart=null;hold=null;ko=null;rk=null;psw=null;fa=[];kfx=[];bh=[];
  pen={tk:[0,0],g:[0,0],hist:[[],[]],n:0,ph:'intro',t:0,zz:cam.z,hf:hf0};pz.style.display='block';sfx('whistle_pen')}
 function penKick(){const q=pen,t=q.mini?q.mini.mt:q.n%2,sh=P[NP*t+1+(q.tk[t]%5)],kp=P[NP*(1-t)];q.t=0;q.ph='ready';q.sh=sh;q.kp=kp;q.team=t;q.dir=null;q.ds=0;q.kyo=0;q.kvy=0;q.pw=0;q.ch=false;q.aimY=0;q.aimZ=14;q.ah=0;q.hum=!!ctl[t];q.khum=!!ctl[1-t];q.kd=.1+Math.random()*.16;q.res='';
@@ -1447,10 +1466,12 @@ function statsHtml(){const m=MS,tp=(m.pos[0]+m.pos[1])||1,a=Math.round(m.pos[0]/
 function loginBox(){const st=QS.st||1,cur=Math.min(st,7),nx=Math.min(st+1,7)+1;let ch='';for(let d=1;d<=7;d++){const done=d<=cur,now=d==cur;ch+='<div style="flex:1;padding:5px 0;border-radius:9px;text-align:center;font-size:11px;background:'+(now?'rgba(255,213,79,.28)':done?'rgba(95,224,122,.2)':'rgba(255,255,255,.06)')+';border:1px solid '+(now?'#ffd54f':'transparent')+'"><div style="opacity:.75">'+L('Gün ','Day ')+d+'</div><b style="color:'+(done?'#ffd54f':'#fff')+'">'+(done?'✓ ':'')+'🪙'+(d+1)+'</b></div>'}
  return '<div style="margin:6px 0 10px;padding:9px;border-radius:14px;background:rgba(255,255,255,.07);text-align:left"><div style="display:flex;justify-content:space-between;font-size:14px"><b>📅 '+L('Günlük giriş ödülü','Daily login reward')+'</b><span style="color:#ffd54f">'+L('Seri: ','Streak: ')+st+' '+L('gün','d')+'</span></div><div style="display:flex;gap:4px;margin:7px 0">'+ch+'</div><div style="font-size:12px;opacity:.85">✅ '+L('Bugünkü ödül alındı: ','Today claimed: ')+'<b style="color:#ffd54f">+'+(cur+1)+' 🪙</b> · '+L('Yarın gelirsen: ','Come back tomorrow: ')+'<b style="color:#ffd54f">+'+nx+' 🪙</b></div></div>'}
 const QIC={goal:'k_goal',win:'k_trophy',save:'j_glove',pass:'j_boot',tackle:'k_boots',penSave:'k_pen',penGoal:'k_pen',shot:'k_goal',clean:'i_shield',mini:'k_pad',hardPlay:'k_flame',tourRound:'i_trophy'};
+function badgeUI(){const en=ST.lang=='en',n=Object.keys(QS.ach).length;
+const ad=ACH.map(a=>{const u=QS.ach[a.id];return '<div title="'+a.d[en?1:0]+'" style="padding:8px 4px;border-radius:12px;background:rgba(255,255,255,'+(u?.1:.04)+');opacity:'+(u?1:.5)+';text-align:center"><div style="font-size:24px;filter:'+(u?'none':'grayscale(1)')+'">'+a.i+'</div><div style="font-size:11px;font-weight:700">'+a.n[en?1:0]+'</div><div style="font-size:10px;opacity:.75">'+a.d[en?1:0]+'</div><div style="font-size:10px;color:#ffd54f">🪙 '+a.r+'</div></div>'}).join('');
+ ov.style.display='flex';ov.innerHTML='<div class="card" style="width:min(460px,92vw)"><h1>🎖 '+L('Rozetler','Badges')+' ('+n+'/'+ACH.length+')</h1><div style="display:grid;grid-template-columns:repeat(3,1fr);gap:7px;margin:8px 0">'+ad+'</div><div class="row"><button class="bb" onclick="questUI()">'+L('Geri','Back')+'</button></div></div>'}
 function questUI(){state=state=='pause'?state:'menu';const en=ST.lang=='en',qd0=QS.q.filter(q=>!q.done),qdn=QS.q.length-qd0.length,qd=qd0.map(q=>{const d=QD.find(x=>x.id==q.id),pc=Math.min(100,q.p/d.g*100);return '<div class="qc" style="background-image:url(assets/'+(q.done?'q_done':'q_card')+'.png)"><img class="qi" src="assets/'+(QIC[d.e]||'k_goal')+'.png"><div class="qx"><div class="qt">'+d.n[en?1:0]+'</div><div class="qb"><i style="width:'+pc+'%"></i></div><div class="qp">'+q.p+' / '+d.g+'</div></div><div class="qr">+'+d.r+'</div></div>'}).join('');
- const ad=ACH.map(a=>{const u=QS.ach[a.id];return '<div title="'+a.d[en?1:0]+'" style="padding:8px 4px;border-radius:12px;background:rgba(255,255,255,'+(u?.1:.04)+');opacity:'+(u?1:.5)+';text-align:center"><div style="font-size:24px;filter:'+(u?'none':'grayscale(1)')+'">'+a.i+'</div><div style="font-size:11px;font-weight:700">'+a.n[en?1:0]+'</div><div style="font-size:10px;opacity:.75">'+a.d[en?1:0]+'</div><div style="font-size:10px;color:#ffd54f">🪙 '+a.r+'</div></div>'}).join('');
  const n=Object.keys(QS.ach).length;pz.style.display='none';ov.style.display='flex';
- ov.innerHTML='<div class="card" style="width:min(460px,92vw)"><h1>🏅 '+L('Görevler','Quests')+'</h1><div style="font-size:13px;opacity:.85;margin-bottom:6px">'+L('Toplam kazanılan altın: ','Total gold earned: ')+'<b style="color:#ffd54f">'+QS.pts+'</b>'+(window.KR&&KR.user&&KR.profile?' · '+L('puan tablosuna eklenir','added to leaderboard'):'')+'</div>'+clBox()+lvBox()+loginBox()+'<b>'+L('Bugünkü görevler','Daily quests')+'</b>'+qd+'<div style="font-size:12px;opacity:.75;margin:4px 0">✅ '+L('Bugün tamamlanan: ','Done today: ')+qdn+' · '+L('Yeni görevler sürekli gelir (günde en çok 12)','New quests keep coming (max 12/day)')+'</div><div style="font-size:12px;opacity:.75">🎖 '+L('Her galibiyet +2 🪙, maç +1 🪙; her 10 gol, 5 galibiyet, 10 kurtarış… ödül verir','Each win +2 🪙, match +1 🪙; milestones every 10 goals, 5 wins, 10 saves… give bonus')+'</div>'+weeklyBox()+'<b style="display:block;margin-top:12px">'+L('Rozetler','Badges')+' ('+n+'/'+ACH.length+')</b><div style="display:grid;grid-template-columns:repeat(3,1fr);gap:7px;margin:8px 0">'+ad+'</div><div class="row"><button class="bb" onclick="'+(inSet?'':'')+'menu()">'+L('Geri','Back')+'</button></div></div>'}
+ ov.innerHTML='<div class="card" style="width:min(460px,92vw)"><h1>🏅 '+L('Görevler','Quests')+'</h1><div style="font-size:13px;opacity:.85;margin-bottom:6px">'+L('Toplam kazanılan altın: ','Total gold earned: ')+'<b style="color:#ffd54f">'+QS.pts+'</b>'+(window.KR&&KR.user&&KR.profile?' · '+L('puan tablosuna eklenir','added to leaderboard'):'')+'</div>'+clBox()+lvBox()+loginBox()+'<b>'+L('Bugünkü görevler','Daily quests')+'</b>'+qd+'<div style="font-size:12px;opacity:.75;margin:4px 0">✅ '+L('Bugün tamamlanan: ','Done today: ')+qdn+' · '+L('Yeni görevler sürekli gelir (günde en çok 12)','New quests keep coming (max 12/day)')+'</div><div style="font-size:12px;opacity:.75">🎖 '+L('Her galibiyet +2 🪙, maç +1 🪙; her 10 gol, 5 galibiyet, 10 kurtarış… ödül verir','Each win +2 🪙, match +1 🪙; milestones every 10 goals, 5 wins, 10 saves… give bonus')+'</div>'+weeklyBox()+'<div class="row" style="margin-top:12px"><button onclick="badgeUI()">🎖 '+L('Rozetler','Badges')+' ('+n+'/'+ACH.length+')</button></div><div class="row"><button class="bb" onclick="menu()">'+L('Geri','Back')+'</button></div></div>'}
 
 // ===== SEZON YOLU =====
 function spAvail(){let n=0;for(let l=2;l<=Math.min(QS.lv||1,SPMAX);l++)if(!(QS.sp||{})[l])n++;return n}
@@ -1474,7 +1495,7 @@ const SHOP=[
 {id:'s_fire',k:'skill',c:1,p:12,i:'🔥',n:['Alevli şut','Fire shot'],d:['Bir sonraki şutun alevli ve çok sert olur','Your next shot is blazing and extra hard']},
 {id:'s_wall',k:'skill',c:1,p:10,i:'🧱',n:['Yerden duvar','Ground wall'],d:['Topun önüne taş duvar çıkarır','Raises a stone wall in front of the ball']},
 {id:'s_ufo',k:'skill',c:1,p:25,i:'🛸',n:['Uzaylı kaçırma','Alien abduction'],d:['UFO bir rakibi 10 saniye kaçırır','A UFO abducts a rival for 10 seconds']},
-{id:'s_spd',k:'skill',p:40,i:'⚡',n:['Süper hız (kalıcı)','Super stamina (permanent)'],d:['Sıçrama enerjisi %60 daha hızlı dolar','Dash energy refills 60% faster']},
+{id:'s_spd',k:'skill',p:40,i:'⚡',n:['Süper hız (kalıcı)','Super stamina (permanent)'],d:['Sprint enerjisi %60 daha hızlı dolar','Sprint energy refills 60% faster']},
 {id:'t_fire',k:'trail',p:25,i:'☄',n:['Ateş izi','Fire trail'],o:{c:['#fff2a0','#ff8a2a','#d92a00']}},
 {id:'t_ice',k:'trail',p:25,i:'❄',n:['Buz izi','Ice trail'],o:{c:['#ffffff','#9fe3ff','#3a9fe8']}},
 {id:'t_rain',k:'trail',p:40,i:'🌈',n:['Gökkuşağı izi','Rainbow trail'],o:{rb:1}},
@@ -1645,7 +1666,7 @@ const TMI={blue:'pl_b0',lion:'pl_lion_0',tiger:'pl_tiger_0',wolf:'pl_wolf_0',bea
 function tmImg(k,T){return TMI[k]?'<img src="assets/'+TMI[k]+'.png" style="height:42px;max-width:44px;object-fit:contain">':T.ic}
 function teamPick(){const en=ST.lang=='en',cur=TMS[ST.team]?ST.team:'blue';ov.style.display='flex';
  const row=k=>{const T=TMS[k],sel=k==cur;return '<div onclick="ST.team=\''+k+'\';saveST();teamPick()" style="display:flex;gap:10px;align-items:center;padding:7px 10px;border-radius:12px;background:rgba(255,255,255,'+(sel?.18:.07)+');border:2px solid '+(sel?T.c:'transparent')+';text-align:left;cursor:pointer"><div style="font-size:30px;width:44px;text-align:center">'+tmImg(k,T)+'</div><div style="flex:1;min-width:0"><b style="font-size:14px;color:'+T.c+'">'+T.n[en?1:0]+(sel?' ✓':'')+'</b><div style="font-size:11px;opacity:.85">'+T.pd[en?1:0]+'</div>'+(T.ad?'<div style="font-size:11px;color:#ffe08a">★ '+T.ad[en?1:0]+'</div>':'')+'</div></div>'};
- ov.innerHTML='<div class="card" style="width:min(520px,94vw);max-height:92vh;overflow:auto"><h1>🛡 '+L('Takımını seç','Pick your team')+'</h1><div style="display:flex;flex-direction:column;gap:6px;margin:6px 0">'+Object.keys(TMS).map(row).join('')+'</div><div class="row"><button onclick="playUI()">'+L('Tamam','Done')+'</button></div></div>'}
+ ov.innerHTML='<div class="card" style="width:min(520px,94vw);max-height:92vh;overflow:auto"><h1>🛡 '+L('Takımını seç','Pick your team')+'</h1><div style="display:flex;flex-direction:column;gap:6px;margin:6px 0">'+Object.keys(TMS).map(row).join('')+'</div><div class="row"><button onclick="playUI()">'+L('Tamam','Done')+'</button></div><button class="xcl" aria-label="Kapat" onclick="playUI()">✕</button></div>'}
 function puStep(rd){teamStep(rd);if(NET||pen||!ball||!P.length)return;tb[0]=Math.max(0,tb[0]-rd);tb[1]=Math.max(0,tb[1]-rd);pb[0]=Math.max(0,pb[0]-rd);pb[1]=Math.max(0,pb[1]-rd);
  if(PU){PU.t-=rd;if(PU.t<=0){PU=null;return}for(const p of P){if(p.i>0&&!(p.off>0)&&Math.hypot(p.x-PU.x,p.y-PU.y)<R+18){puGet(PU,p);PU=null;return}}}
  else{puT-=rd;if(puT<=0&&!ko&&!restart&&!hold&&!pk){let r=Math.random()*11,kd=PUK[0];for(const q of PUK){r-=q.w;if(r<=0){kd=q;break}}PU={x:PX+200+Math.random()*(PW-400),y:PY+70+Math.random()*(PH-140),k:kd,t:12};puT=15+Math.random()*10}}}
@@ -1663,8 +1684,8 @@ function chatShow(t,side){const w=document.querySelector('.wrap'),d=document.cre
 function chatSend(t){chOpen=false;document.getElementById('cp').style.display='none';chatShow(t,0);if(NET){try{NETHOOK.chat&&NETHOOK.chat(t)}catch(e){}}else if(Math.random()<.65){const en=ST.lang=='en',r=[...CHE.map(e=>e),...CHP.map(x=>x[en?1:0])];setTimeout(()=>chatShow(r[Math.floor(Math.random()*r.length)],1),900+Math.random()*900)}}
 function chatRecv(t){chatShow(String(t).slice(0,40),1)}
 
-function ovBackBtn(){const c=ov.querySelector('.card');if(!c)return null;return [...c.querySelectorAll('button')].reverse().find(b=>/^(Geri|Back)$/i.test(b.textContent.trim()))||null}
-new MutationObserver(()=>{ov.classList.toggle('mbg',state=='menu');const c=ov.querySelector('.card');if(c&&!c.querySelector(':scope>.cin')&&!c.classList.contains('nowrap')){const w=document.createElement('div');w.className='cin';while(c.firstChild)w.appendChild(c.firstChild);const h=w.firstElementChild;if(h&&h.tagName=='H1')c.appendChild(h);c.appendChild(w)}if(!c||c.querySelector('.xcl'))return;if(!ovBackBtn())return;const x=document.createElement('button');x.className='xcl';x.textContent='✕';x.setAttribute('aria-label','Kapat');x.onclick=e=>{e.stopPropagation();const b=ovBackBtn();if(b)b.click()};c.appendChild(x)}).observe(ov,{childList:true});
+function ovBackBtn(){const c=ov.querySelector('.card');if(!c)return null;return [...c.querySelectorAll('button')].reverse().find(b=>/^(Geri|Back|←|\u2190|\u0130ptal|İptal|Cancel)$/i.test(b.textContent.trim()))||null}
+new MutationObserver(()=>{ov.classList.toggle('mbg',state=='menu');const c=ov.querySelector('.card');if(c&&!c.querySelector(':scope>.cin')&&!c.classList.contains('nowrap')){const w=document.createElement('div');w.className='cin';while(c.firstChild)w.appendChild(c.firstChild);const h=w.firstElementChild;if(h&&h.tagName=='H1')c.appendChild(h);c.appendChild(w)}if(!c||c.querySelector('.xcl'))return;if(!ovBackBtn())return;const x=document.createElement('button');x.className='xcl';x.textContent='✕';x.setAttribute('aria-label','Kapat');x.onclick=e=>{e.stopPropagation();const b=ovBackBtn();if(b)b.click()};c.appendChild(x);const bk=ovBackBtn();if(bk){const rw=bk.parentElement;bk.style.display='none';if(rw&&rw.classList.contains('row')&&![...rw.children].some(e=>e.style.display!='none'))rw.style.display='none'}}).observe(ov,{childList:true});
 ov.addEventListener('click',e=>{if(e.target===ov&&ov.style.display!='none'){const b=ovBackBtn();if(b)b.click()}});
 function comment(){}
 let stopCm=false;
@@ -1673,7 +1694,7 @@ function loop(t){clock=t/1000;tcUpdate();const dt=Math.min(.033,(t-last)/1000);i
  if(NET&&NET.role=='guest'){if(state=='play')NETHOOK.guestStep(dt)}else if(rpl){if(state=='play')rplStep(dt)}else if(state=='play'){upd(dt*GS);if(shake>0)shake-=dt;if(rk)rkUpdate(dt);if(!NET&&!rpl&&!(froze>0)&&!pen)rec(dt)}if(NET&&NET.role=='host')NETHOOK.hostTick(dt);crowdUpd(dt);
  if(state!='menu'){if(ball&&!rpl){if(!(froze>0)&&!pen)gcam=null;cam.lx=cam.lx||0;cam.ly=cam.ly||0;cam.vx=cam.vx||0;cam.vy=cam.vy||0;{const sp=Math.hypot(ball.vx,ball.vy),on=sp>260&&!gcam,kk=Math.min(1,dt*.9);cam.lx+=((on?clamp(ball.vx*.17,-85,85):0)-cam.lx)*kk;cam.ly+=((on?clamp(ball.vy*.17,-55,55):0)-cam.ly)*kk}
  const bx=gcam?gcam.x:ball.x+cam.lx,by=gcam?gcam.y:ball.y+cam.ly;cam.tx=bx;cam.ty=by;
- if(zm==0){const d=Math.min(1,Math.abs((gcam?gcam.x:ball.x)-(PX+PW/2))/(PW/2)),u=Math.min(1,Math.max(0,(d-.2)/.42)),zt=1+.6*u*u*(3-2*u);cam.z+=(zt-cam.z)*Math.min(1,dt*.7)}if(pen)cam.z+=(1.85-cam.z)*Math.min(1,dt*3);
+ if(zm==0){const d=Math.min(1,Math.abs((gcam?gcam.x:ball.x)-(PX+PW/2))/(PW/2)),u=Math.min(1,Math.max(0,(d-.2)/.42)),zt=1.3+.5*u*u*(3-2*u);cam.z+=(zt-cam.z)*Math.min(1,dt*.7)}if(pen)cam.z+=(1.85-cam.z)*Math.min(1,dt*3);
  const hw=W/2/cam.z,hh=H/2/cam.z,dzx=60/cam.z*1.2,dzy=42/cam.z*1.2,ex=bx-cam.x,ey=by-cam.y,tx=Math.abs(ex)<dzx?0:ex-Math.sign(ex)*dzx,ty=Math.abs(ey)<dzy?0:ey-Math.sign(ey)*dzy;
  cam.vx=clamp(cam.vx+(tx*8-cam.vx*4.6)*dt,-650,650);cam.vy=clamp(cam.vy+(ty*8-cam.vy*4.6)*dt,-650,650);
  cam.x+=cam.vx*dt;cam.y+=cam.vy*dt;if(cam.x<hw){cam.x=hw;cam.vx=0}if(cam.x>W-hw){cam.x=W-hw;cam.vx=0}if(cam.y<hh){cam.y=hh;cam.vy=0}if(cam.y>H-hh){cam.y=H-hh;cam.vy=0}}
